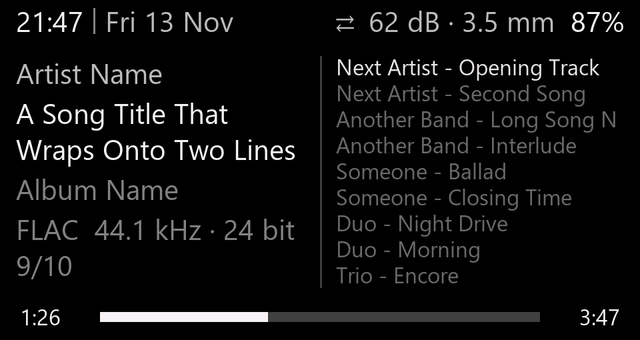
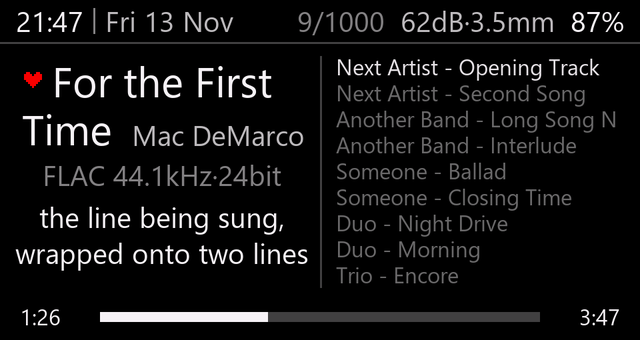
NOTICE rewritten truthfully; new UI pictures for the release
NOTICE: what is and is not distributed, stated plainly: the source and the
releases carry no RECHO code; docs/img/echo mini.zip and echo.zip are
complete patched images containing RECHO, added by the repository owner,
with no recorded permission from RECHO's author. Sizes and counts updated.
README: the same, current byte counts, and a gallery of the Echo Mini's new
screens (Now Playing, main menu, Files, Artists, Favourites) rendered by
tools/render_docs.py.

Changed region(s): [[0.0, 0.1765, 0.5, 0.8235], [0.0, 0.0294, 1.0, 0.1471]]

diff --git a/tools/render_docs.py b/tools/render_docs.py
@@ -5,6 +5,10 @@
 
   controls.png          button cheat sheet (both players)
   now-playing-mini.png  Echo Mini Now Playing, 320 x 170, zones from patches/ui_np.c
+  menu-mini.png         Echo Mini main menu (pixel-art tabs read from patches/ui_np.c)
+  files-mini.png        Files: Internal, SD card, Favourites, Artists; time | date in the header
+  artists-mini.png      Files -> Artists (Echo Mini)
+  favourites-mini.png   Files -> Favourites: pick the song to start with (Echo Mini)
   now-playing-echo.png  Echo Now Playing, 480 x 222 panel: picture, player strip, Up Next
 
 Layouts use the coordinates in the C sources. RECHO's two bitmap fonts live in the firmware, so
@@ -85,22 +89,129 @@ QUEUE = ["Next Artist - Opening Track", "Next Artist - Second Song", "Another Ba
          "Duo - Morning", "Trio - Encore", "Trio - Outro", "Solo - Last One"]
 
 
+DOT = "\u00b7"
+
+
+def top_bar_mini(sc, pre, right, last="87%", right_c=SOFT):
+    """time | date left; pre (grey), right, last (battery) on the right, as top_bar_3"""
+    top_bar(sc, 0, right, right_c, last=last)
+    if pre:
+        xr = 320 - 8 - sc.width(1, last) - 6 - sc.width(1, right) - 10
+        sc.text(1, xr, 10, pre, GREY, "rm")
+    sc.rect(0, 21, 319, 21, RULE)
+
+
+def heart(sc, x, y):
+    rows = [".##...##.", "####.####", "#########", "#########", ".#######.", "..#####..", "...###...", "....#...."]
+    for ry, row in enumerate(rows):
+        for rx, ch in enumerate(row):
+            if ch == "#":
+                sc.rect(x + rx, y + ry, x + rx, y + ry, (248, 0, 0))
+
+
 def now_playing_mini():
     sc = Screen(320, 170)
-    top_bar(sc, 0, "62 dB \u00b7 3.5 mm", last="87%")
-    sc.text("sym", 320 - 8 - sc.width(1, "87%") - 8 - sc.width(1, "62 dB \u00b7 3.5 mm") - 6, 10, "\u21c4", SOFT, "rm")
-    y = 36
-    sc.text(1, 8, y, "Artist Name", SOFT)
-    sc.text(1, 8, y + 20, "A Song Title That", WHITE)
-    sc.text(1, 8, y + 38, "Wraps Onto Two Lines", WHITE)
-    sc.text(1, 8, y + 58, "Album Name", GREY)
-    sc.text(1, 8, y + 78, "FLAC  44.1 kHz \u00b7 24 bit", GREY)
-    sc.text(1, 8, y + 96, "9/10", GREY)
+    top_bar_mini(sc, "9/1000", "62dB" + DOT + "3.5mm")
+    cx = 8 + 146 // 2
+    big = 3                                       # the title at 1.5x, wrapped, centred
+    l1, l2, artist = "For the First", "Time", "Mac DeMarco"
+    w1 = sc.width(big, l1)
+    sc.text(big, cx, 40, l1, WHITE, "mm")
+    heart(sc, cx - int(w1 / 2) - 14, 36)          # in the margin: the title does not move
+    w2, wa = sc.width(big, l2), sc.width(1, artist)
+    x0 = cx - int((w2 + 10 + wa) / 2)
+    sc.text(big, x0, 64, l2, WHITE, "lm")
+    sc.text(1, x0 + w2 + 10, 67, artist, SOFT, "lm")
+    sc.text(1, cx, 87, "FLAC 44.1kHz" + DOT + "24bit", GREY, "mm")
+    sc.text(1, cx, 108, "the line being sung,", WHITE, "mm")
+    sc.text(1, cx, 126, "wrapped onto two lines", WHITE, "mm")
     sc.rect(160, 28, 160, 143, RULE)
     for i in range(9):
         sc.text(0, 168, 33 + 13 * i, QUEUE[i], NEXT1 if i == 0 else NEXTN, maxw=144)
     progress(sc, 0, 158)
     sc.save(os.path.join(OUT, "now-playing-mini.png"))
+
+
+def c_bitmap(name):
+    src = open(os.path.join(ROOT, "patches", "ui_np.c"), encoding="utf-8").read()
+    m = re.search(r"static const char \*const " + name + r"\[\d+\] = \{(.*?)\};", src, re.S)
+    return re.findall(r'"([.#]+)"', m.group(1))
+
+
+def bitmap(sc, rows, x0, y0, c):
+    for ry, row in enumerate(rows):
+        for rx, ch in enumerate(row):
+            if ch == "#":
+                sc.rect(x0 + rx, y0 + ry, x0 + rx, y0 + ry, c)
+
+
+def menu_mini():
+    sc = Screen(320, 170)
+    top_bar_mini(sc, "", "62dB" + DOT + "3.5mm")
+    sc.text("sym", 320 - 8 - sc.width(1, "87%") - 6 - sc.width(1, "62dB" + DOT + "3.5mm") - 6, 10, "\u21c4", SOFT, "rm")
+    big = font("segoeui.ttf", 28 * S)
+    sc.f["big"] = big
+    sc.text("big", 16, 44, "Now playing", WHITE)
+    sc.text(0, 16, 70, "Mac DeMarco - For the First Time", SOFT)
+    sc.text(0, 16, 87, "Playing", GREY)
+    tabs = [("TAB_FOLDER", -8, -7), ("TAB_SYS", -10, -4), ("TAB_DISC", -8, -8), ("TAB_BT", -6, -8),
+            ("TAB_WRENCH", -8, -7)]
+    for i, (name, dx, dy) in enumerate(tabs):
+        cx, cy = i * 64 + 32, 125
+        on = i == 2
+        bitmap(sc, c_bitmap(name), cx + dx, cy + dy, WHITE if on else GREY)
+        if on:
+            sc.text(1, cx - 24, cy, "<", WHITE)
+            sc.text(1, cx + 14, cy, ">", WHITE)
+    progress(sc, 0, 158)
+    sc.save(os.path.join(OUT, "menu-mini.png"))
+
+
+def header(sc, title):
+    """RECHO's screen header with the mod's time | date where its icon was"""
+    sc.text(1, 8, 10, "21:47", WHITE)
+    w = sc.width(1, "21:47")
+    sc.rect(8 + w + 5, 4, 8 + w + 5, 16, GREY)
+    sc.text(1, 8 + w + 11, 10, "Fri 13 Nov", SOFT)
+    x = 8 + w + 11 + sc.width(1, "Fri 13 Nov") + 10
+    sc.text(1, x, 10, title, WHITE)
+    sc.text(1, 312, 10, "87%", WHITE, "rm")
+    sc.text(1, 312 - sc.width(1, "87%") - 8, 10, "62 dB", WHITE, "rm")
+
+
+def list_rows(sc, rows, sel, chevron=False):
+    for i, label in enumerate(rows):
+        y = 22 + 20 * i
+        fg = WHITE
+        if i == sel:
+            sc.rect(8, y, 311, y + 19, rgb565(0x24DF))
+            fg = (0, 0, 0)
+        sc.text(1, 12, y + 10, label, fg)
+        if chevron:
+            sc.text(1, 308, y + 10, "\u203a", fg, "rm")
+
+
+def files_mini():
+    sc = Screen(320, 170)
+    header(sc, "Files")
+    list_rows(sc, ["Internal", "SD card", "Favourites", "Artists"], 3, chevron=True)
+    sc.save(os.path.join(OUT, "files-mini.png"))
+
+
+def artists_mini():
+    sc = Screen(320, 170)
+    header(sc, "Files")
+    list_rows(sc, ["Halsey", "Joji", "Lamp", "Mac DeMarco", "Mitski", "Palace", "Tame Impala"], 3)
+    sc.save(os.path.join(OUT, "artists-mini.png"))
+
+
+def favourites_mini():
+    sc = Screen(320, 170)
+    header(sc, "Files")
+    list_rows(sc, ["Flora Cash - What Is Wrong", "Mac DeMarco - Heart To Heart", "Palace - Bitter",
+                   "Tame Impala - New Person, Same Old Mistakes", "Tinariwen - Sagherat Assani",
+                   "Mitski - I Will", "Joji - Strange Home"], 1)
+    sc.save(os.path.join(OUT, "favourites-mini.png"))
 
 
 def now_playing_echo():
@@ -213,4 +324,9 @@ if __name__ == "__main__":
     controls()
     now_playing_mini()
     now_playing_echo()
-    print("docs/img: controls.png now-playing-mini.png now-playing-echo.png")
+    menu_mini()
+    files_mini()
+    artists_mini()
+    favourites_mini()
+    print("docs/img: controls.png now-playing-mini.png now-playing-echo.png menu-mini.png files-mini.png"
+          " artists-mini.png favourites-mini.png")

diff --git a/README.md b/README.md
@@ -4,13 +4,23 @@ Binary patches for **[RECHO](https://recho.atzkey.workers.dev/) 0.10.1** (build 
 custom firmware for the FiiO / Snowsky **Echo Mini**, plus a port of it to the full-size **Snowsky Echo**.
 RECHO is not made by FiiO or Snowsky; they make the players and their stock firmware.
 
-Everything here is a script, C source or document. **No firmware image is included.** You patch your
-own copy of RECHO 0.10.1 and get a new image that a verifier checks byte by byte before you flash it.
+The source code is scripts, C and documents, with no RECHO code. You patch your own copy of
+RECHO 0.10.1 and get a new image that a verifier checks byte by byte before you flash it. The
+[releases](https://github.com/chocolate-b4r/recho-echo-mod/releases) hold the mod's own files only.
+(Two zips in `docs/img/` are complete patched images and do contain RECHO: see [NOTICE.md](NOTICE.md).)
 
 <table>
 <tr>
 <td width="50%"><img src="docs/img/now-playing-mini.png" alt="Echo Mini Now Playing"><br><sub><b>Echo Mini</b>: song on the left, Up Next on the right</sub></td>
 <td width="50%"><img src="docs/img/now-playing-echo.png" alt="Echo Now Playing"><br><sub><b>Echo</b>: big title, file details, live lyrics, Up Next column</sub></td>
+</tr>
+<tr>
+<td width="50%"><img src="docs/img/menu-mini.png" alt="Main menu"><br><sub><b>Main menu</b>: pixel-art tabs, the song playing</sub></td>
+<td width="50%"><img src="docs/img/files-mini.png" alt="Files"><br><sub><b>Files</b>: time · date on top; Internal, SD card, Favourites, Artists</sub></td>
+</tr>
+<tr>
+<td width="50%"><img src="docs/img/artists-mini.png" alt="Artists"><br><sub><b>Artists</b> (Echo Mini): every artist, A to Z; ▶‖ plays them</sub></td>
+<td width="50%"><img src="docs/img/favourites-mini.png" alt="Favourites"><br><sub><b>Favourites</b> (Echo Mini): pick the song to start with</sub></td>
 </tr>
 </table>
 
@@ -25,13 +35,13 @@ calling RECHO's own routines.
 
 | | Echo Mini image | Echo image |
 |---|---:|---:|
-| bytes that differ from RECHO 0.10.1 | 28,715 of 5,242,884 (0.55 %) | 34,136 of 5,242,884 (0.65 %) |
-| of which the mod's own code (in a free area of RECHO's image) | 16,147 | 21,519 |
+| bytes that differ from RECHO 0.10.1 | 35,412 of 5,242,884 (0.68 %) | 35,791 of 5,242,884 (0.68 %) |
+| of which the mod's own code (in a free area of RECHO's image) | 26,800 | 27,200 |
 | of which two RECHO modules blanked (Spectrum, Debug) | 11,516 | 11,516 |
-| RECHO routines the mod's code calls | 49 | 53 |
+| RECHO routines the mod's code calls | 71 | 72 |
 
-Even the new screens are drawn with RECHO's text and rectangle routines and RECHO's fonts; the
-boot screen's 32 glyphs are copied out of RECHO's large font at build time. The full-size Echo port
+Even the new screens are drawn with RECHO's text and rectangle routines and RECHO's fonts. The
+full-size Echo port
 runs RECHO's unchanged player on different hardware. RECHO is the work of its author, who is not
 involved in this project and has not endorsed it. If you like what the players do, the credit
 belongs to RECHO first: get it from [its site](https://recho.atzkey.workers.dev/).

diff --git a/NOTICE.md b/NOTICE.md
@@ -6,14 +6,21 @@
   (build `2d11bdcd`, v0.10.1), the work of its author. It is not a FiiO or Snowsky product, and its
   author is not involved in this project and has not endorsed it.
 - This project patches RECHO. It needs your own copy of RECHO 0.10.1, and almost everything in a
-  patched image is RECHO's: 99.4 % of the Echo Mini image and 99.3 % of the Echo image are RECHO's
-  bytes unchanged. The mod's own code (16 KB for the Mini, 21.5 KB for the Echo) runs inside RECHO
-  and calls 49 / 53 of RECHO's routines to do its work; the routines and addresses it relies on are
+  patched image is RECHO's: 99.3 % of the Echo Mini image and of the Echo image are RECHO's bytes
+  unchanged. The mod's own code (26.8 KB for the Mini, 27.2 KB for the Echo) runs inside RECHO and
+  calls 71 / 72 of RECHO's routines to do its work; the routines and addresses it relies on are
   listed in `docs/02-recho-map.md`.
-- No RECHO image, code or data is distributed here. The patcher reads your copy and writes patch
-  bytes plus the compiled hook code from `patches/`. (Until v47 the build also extracted 32 glyphs of
-  RECHO's large font from your copy for the boot screen; the boot screen is now a black frame and
-  nothing is extracted.)
+- **What is distributed, and what is not:**
+  - The source code, tools and documentation in this repository contain no RECHO code or data. The
+    patcher reads your own copy of RECHO and writes patch bytes plus the compiled hook code from
+    `patches/`. (Until v47 the build also extracted 32 glyphs of RECHO's large font from your copy
+    for the boot screen; the boot screen is now a black frame and nothing is extracted.)
+  - The GitHub releases contain the mod's own files only (compiled hook code, patcher, verifier,
+    icons) and the checksums of the images they produce. They contain no RECHO image.
+  - **`docs/img/echo mini.zip` and `docs/img/echo.zip` are complete patched firmware images.** They
+    contain RECHO's firmware (about 99.3 % of each image is RECHO's bytes unchanged). They were
+    added to the repository by its owner. No permission from RECHO's author to redistribute RECHO is
+    recorded here; if you are RECHO's author and want them removed, open an issue and they will be.
 - **Correction:** commit `062c438` added those glyphs to the repository as `patches/boot_font.h`
   (32 characters of RECHO's large font, about 1 KB). Commit `3a7a4b6` removed the file and moved the
   extraction into the build; the earlier commit is still in the history.

diff --git a/docs/controls.md b/docs/controls.md
@@ -188,12 +188,16 @@ The cold entry described there (paperclip reset + keys) is the more reliable one
 
 ![Echo Mini Now Playing](img/now-playing-mini.png)
 
+| Main menu | Files | Artists | Favourites |
+|---|---|---|---|
+| ![](img/menu-mini.png) | ![](img/files-mini.png) | ![](img/artists-mini.png) | ![](img/favourites-mini.png) |
+
 | Area | Shows |
 |---|---|
 | Top bar | time · date, queue position (grey, "9/1000"), volume and output (over Bluetooth: the headphones' name in green), battery % |
-| Left | artist, song (wraps onto two lines), then the file details: format, sample rate, bits |
+| Left (centred) | the song title, large, wrapping onto more lines; the artist after its last line (or under a one-line title); the heart in the margin before it; file details |
 | Right | **Up Next**: the next 9 songs in play order, the next one brighter |
-| Lyrics | the line being sung, under the file details, up to two lines (from a `.lrc` next to the song) |
+| Lyrics | the line being sung, under the file details, word-wrapped (from a `.lrc` next to the song) |
 | Bottom | elapsed time, progress bar, length (red while paused) |
 
 ### Echo: Now Playing
